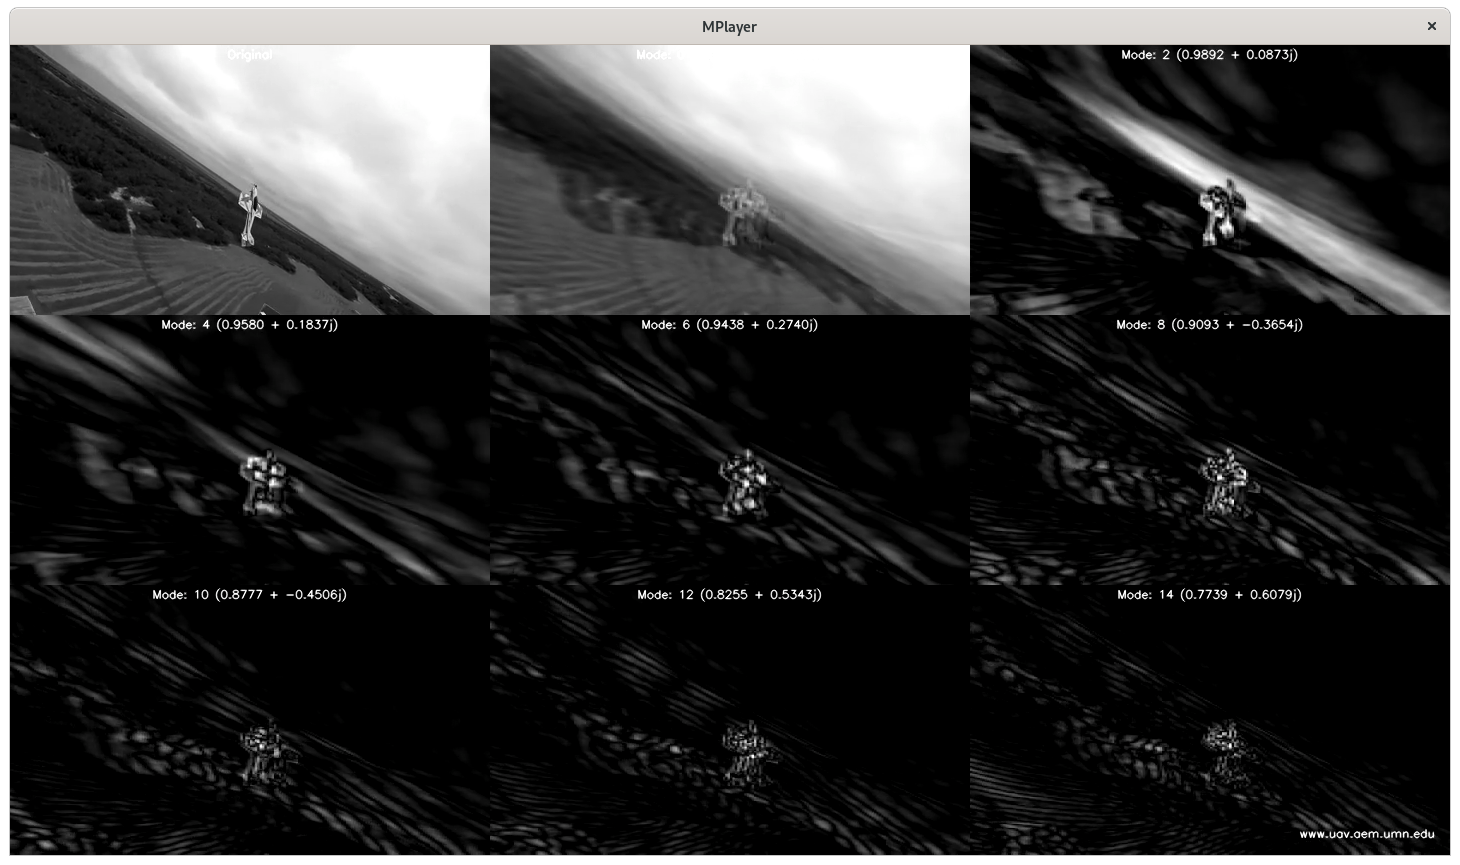
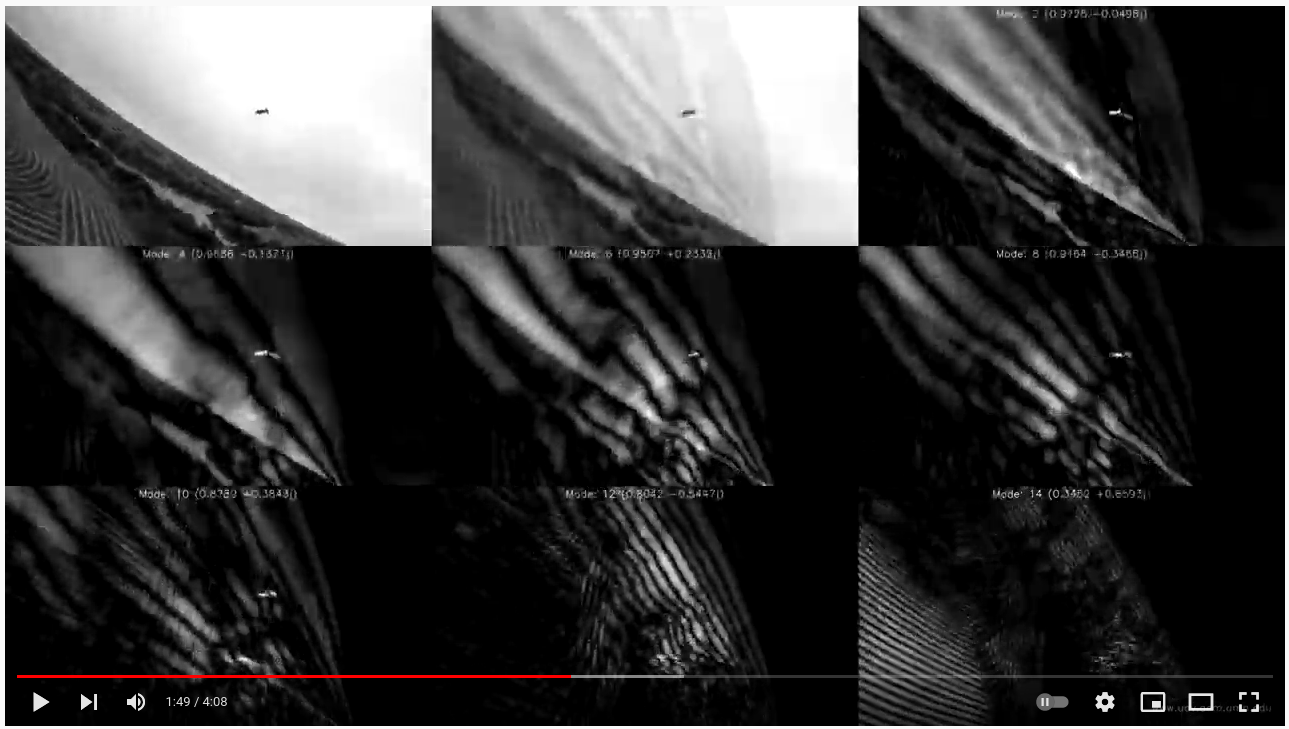
Updates.

diff --git a/motion/docs/README-dmd-motion-seg.md b/motion/docs/README-dmd-motion-seg.md
@@ -158,21 +158,18 @@ information with moving video.
 # High Dynamics Moving Video Example
 
 Consider a video with a very dynamic moving camera (chase quad) and a
-dynamic subject (aerobatic aircraft.)
+dynamic subject (aerobatic aircraft.)  We have animated a sliding
+window DMD solution so you can view it changing over time.
+Functionally this would be similar to a Streaming DMD solution with
+correctly implemented "forgetting" factor.
 
-Visually you can see the original video frame in the top left grid
-location.  Then moving to the right you see the zero frequency DMD
-mode (top center) which visually looks very much like an average of
-the input frames as we would expect.
+The original video is shown in the top left grid location.  The zero
+frequency DMD mode is shown top center.  Visually it looks very much
+like an average of the input frames as we would expect.
 
 Looking at the other non-zero frequency modes, we can see the all the
-elements described above.  Video motion is really just an illusion
-created by changing individual pixel values.  The pixel value changes
-over time show up in all the modes because they generally behave like
-step changes.
-
-In the case of a stationary camera we can look at the zero frequency
-mode and observe it is the background without the moving elements.
+elements described above.  None of the modes are able to isolate
+camera motion from object motion in this general case.
 
 In the case of a moving camera we can view all the different modes and
 animate them throughout the course of the moving video, but we do not
@@ -182,7 +179,7 @@ The information we were hoping to extract just isn't there in the way
 we hoped.  Hopefully the information and background provided
 throughout this document kept this from being a surprise.
 
-![motion modes](./motion-modes.png)
+[![Watch the video](./motion-modes.png)](https://www.youtube.com/watch?v=L55NoW2VmWs)
 
 # Conclusion
 
@@ -202,3 +199,12 @@ This does not necessarily mean the problem is unsolvable, but the
 camera motion first needs to be estimated with some other strategy.
 Once the motion is accounted for, perhaps DMD could be applied to the
 result, or perhaps DMD is not the best fit for this problem?
+
+# Future Work?
+
+Consider the following video showing the use of optical flow and
+homography to model camera motion which then enables the use of
+variations of frame averaging and differencing.
+
+[![Watch the video](./motion-seg.png)](https://www.youtube.com/watch?v=EaqXW09Zj3M)
+
